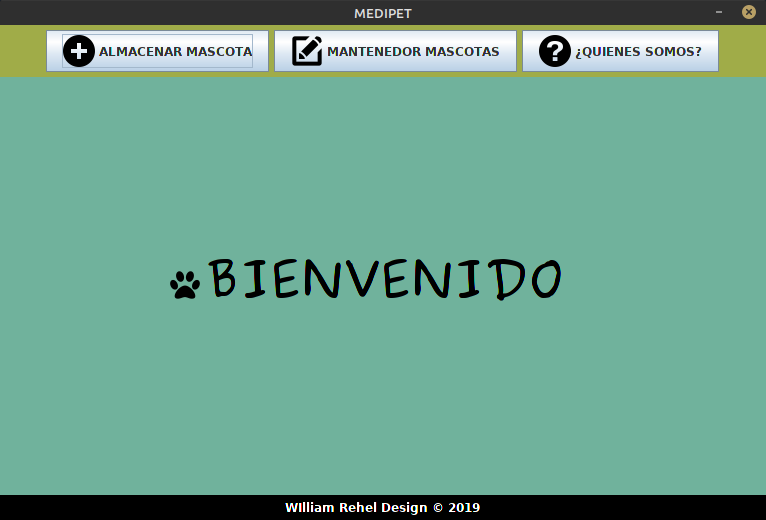
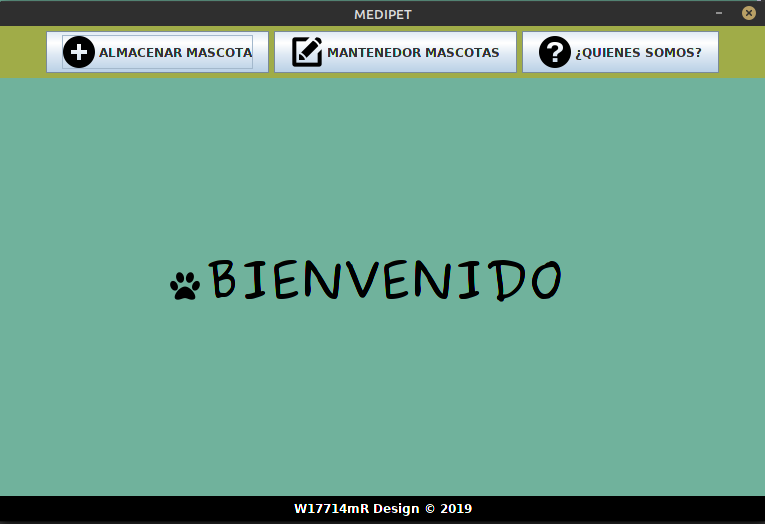
RETOQUES

diff --git a/src/vista/VentanaAbout.java b/src/vista/VentanaAbout.java
@@ -81,7 +81,7 @@ public class VentanaAbout extends javax.swing.JFrame {
         getContentPane().add(jPanel1, java.awt.BorderLayout.PAGE_START);
 
         jPanel2.setBackground(new java.awt.Color(112, 178, 156));
-        jPanel2.setLayout(new java.awt.GridLayout());
+        jPanel2.setLayout(new java.awt.GridLayout(1, 0));
 
         jPanel5.setBackground(new java.awt.Color(112, 178, 156));
 
@@ -150,7 +150,7 @@ public class VentanaAbout extends javax.swing.JFrame {
         jPanel3.setBackground(new java.awt.Color(0, 0, 0));
 
         jLabel1.setForeground(new java.awt.Color(255, 255, 255));
-        jLabel1.setText("WIlliam Rehel Design © 2019");
+        jLabel1.setText("W17714mR Design © 2019");
         jPanel3.add(jLabel1);
 
         getContentPane().add(jPanel3, java.awt.BorderLayout.PAGE_END);

diff --git a/src/controlador/ControladorMascota.java b/src/controlador/ControladorMascota.java
@@ -27,7 +27,7 @@ public class ControladorMascota {
                     + "'" + mascota.getDescriMascota() + "', "
                     + "'" + mascota.getEdadMascota() + "', "
                     + "'" + mascota.getTipoMascota() + "', "
-                    + "" + mascota.getTelefono()+");";
+                    + "'" + mascota.getTelefono()+"');";
 
             System.out.println("CONSULTA: " + consulta);
             stmt.executeUpdate(consulta);

diff --git a/src/vista/MantenedorMascota.java b/src/vista/MantenedorMascota.java
@@ -218,7 +218,7 @@ public class MantenedorMascota extends javax.swing.JFrame {
         jPanel3.setBackground(new java.awt.Color(0, 0, 0));
 
         jLabel1.setForeground(new java.awt.Color(255, 255, 255));
-        jLabel1.setText("WIlliam Rehel Design © 2019");
+        jLabel1.setText("W17714mR Design © 2019");
         jPanel3.add(jLabel1);
 
         getContentPane().add(jPanel3, java.awt.BorderLayout.PAGE_END);

diff --git a/src/vista/Inicio.java b/src/vista/Inicio.java
@@ -104,7 +104,7 @@ public class Inicio extends javax.swing.JFrame {
         jPanel3.setBackground(new java.awt.Color(0, 0, 0));
 
         jLabel1.setForeground(new java.awt.Color(255, 255, 255));
-        jLabel1.setText("WIlliam Rehel Design © 2019");
+        jLabel1.setText("W17714mR Design © 2019");
         jPanel3.add(jLabel1);
 
         getContentPane().add(jPanel3, java.awt.BorderLayout.PAGE_END);
